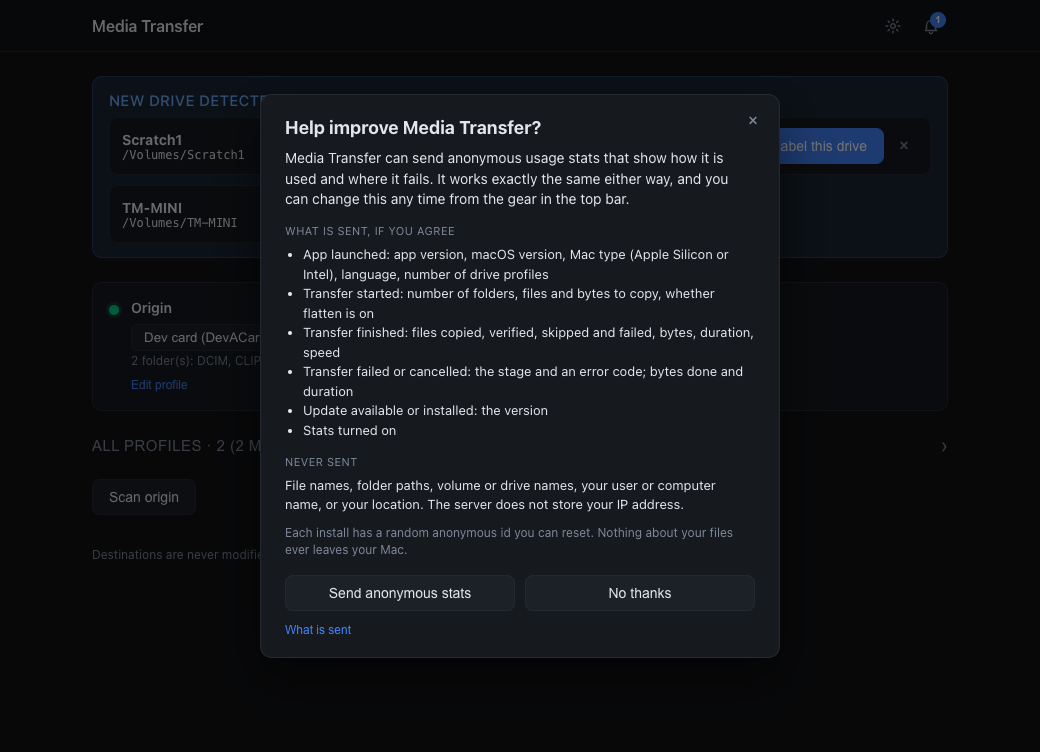
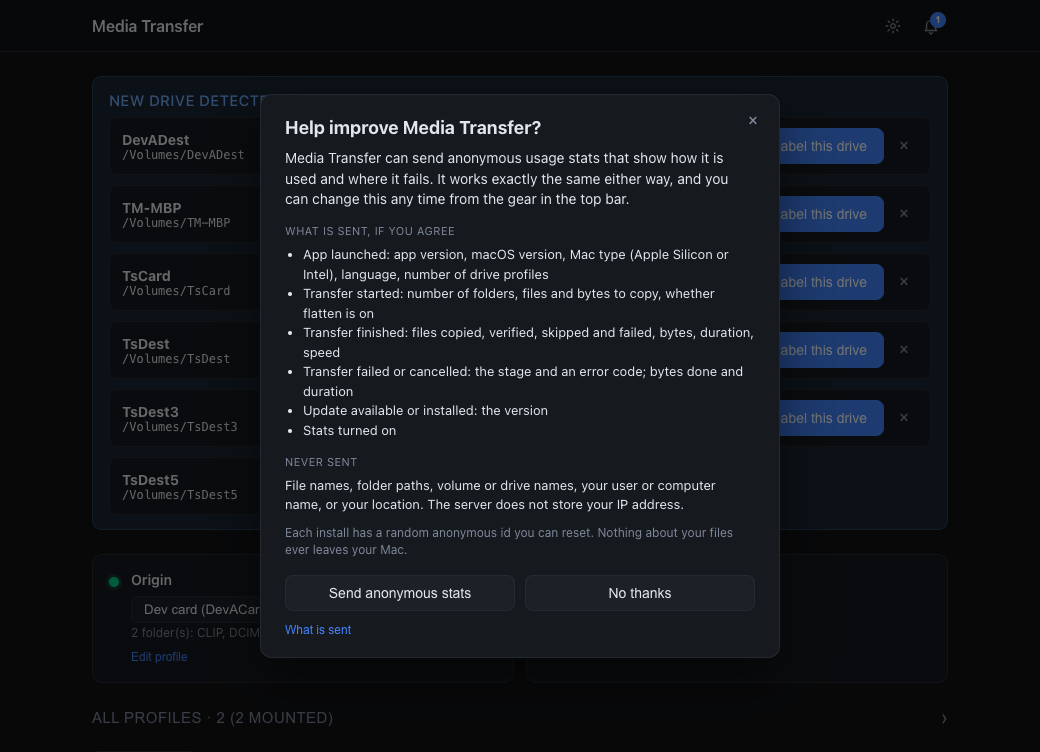
Dev: WIP WO-3 - quit flush ends with app.exit (SIGTERM stall), skip while an update waits; destroyed-window guard; A/B/E evidence so far
Claude-Session: https://claude.ai/code/session_01JV9824K4qSqrkTXCAFFERt

diff --git a/electron/main.ts b/electron/main.ts
@@ -23,7 +23,7 @@ import { getThumbnail } from './thumbnails';
 import { setLedgerFile } from './noclobber';
 import { loadSettings, updateSettings, SettingsPatch } from './settings';
 import { track, flush, dropQueue, noteLaunchVersion, flushBeforeQuit } from './telemetry';
-import { startUpdates, updateItems, removeUpdateItem, installNow } from './updates';
+import { startUpdates, updateItems, removeUpdateItem, installNow, updateWaiting } from './updates';
 
 let win: BrowserWindow | null = null;
 let activePlan: TransferPlan | null = null;
@@ -74,7 +74,7 @@ async function readState() {
 }
 
 async function broadcastState() {
-  if (!win) return;
+  if (!win || win.isDestroyed()) return;
   win.webContents.send('state:update', await readState());
 }
 
@@ -123,13 +123,17 @@ async function launchTelemetry() {
   await flush();
 }
 
-// Best-effort telemetry flush on quit, never more than ~1 s.
+// Best-effort telemetry flush on quit, never more than ~1 s. A quit deferred with
+// preventDefault() and resumed with app.quit() can stall after the windows close (seen on
+// SIGTERM), so the deferred quit ends with app.exit(). While a downloaded update waits to
+// install on quit, the quit is left alone: electron-updater installs it from the normal quit
+// path, and the queue is on disk for the next launch anyway.
 let quitFlushed = false;
 app.on('before-quit', (e) => {
-  if (quitFlushed) return;
+  if (quitFlushed || updateWaiting()) return;
   quitFlushed = true;
   e.preventDefault();
-  flushBeforeQuit().finally(() => app.quit());
+  flushBeforeQuit().finally(() => app.exit(0));
 });
 
 app.on('window-all-closed', () => {

diff --git a/electron/updates.ts b/electron/updates.ts
@@ -18,6 +18,11 @@ let items: UpdateItem[] = [];
 let onChange: () => void = () => {};
 let onAvailable: (version: string) => void = () => {};
 
+/** True once an update is downloaded and will install when the app quits. */
+export function updateWaiting(): boolean {
+  return !TEST && items.some((n) => n.kind === 'update-downloaded');
+}
+
 export function updateItems(): UpdateItem[] {
   return items;
 }
